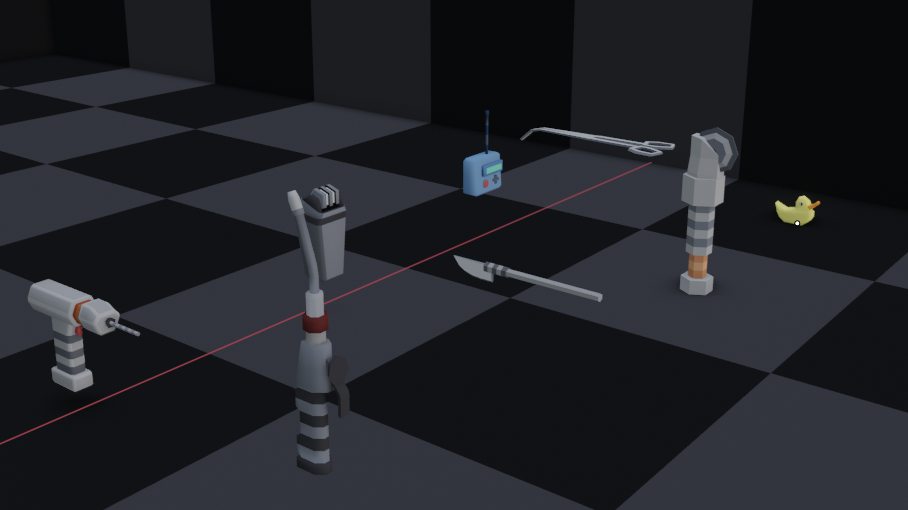
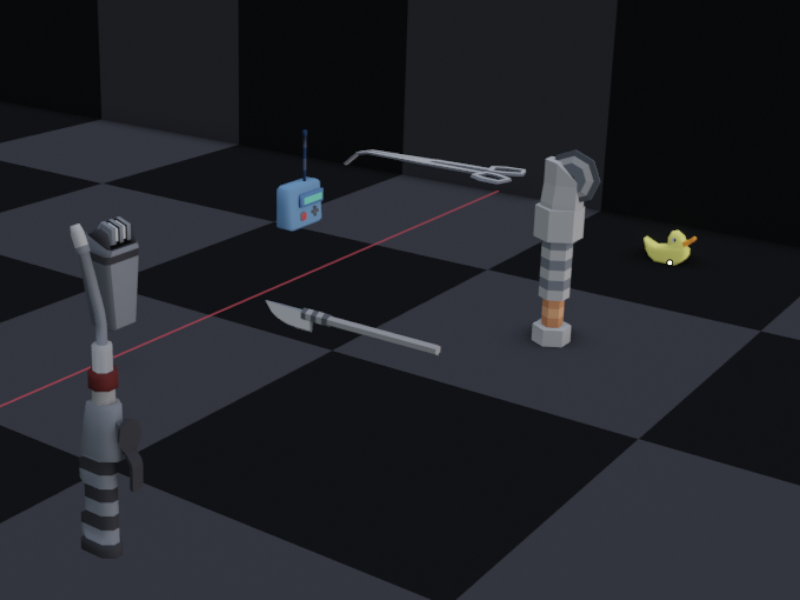
fix more imgs

diff --git a/content/devblog/2019-08-30-19.08.md b/content/devblog/2019-08-30-19.08.md
@@ -135,7 +135,7 @@ From **Grimmie**, some wallpaper shots from what the teaser video was once inten
 
 {{ image(kind="post", src="assets/img/art/ProbablyNot/ProbablyNotClownHall.jpg") }}
 
-{{ image(kind="post", src="assets/img/posts/19.08.01/ProbablyNotSpook.jpg") }}
+{{ image(kind="post", src="assets/img/art/ProbablyNot/ProbablyNotDark.jpg") }}
 
 ### NOTES
 
